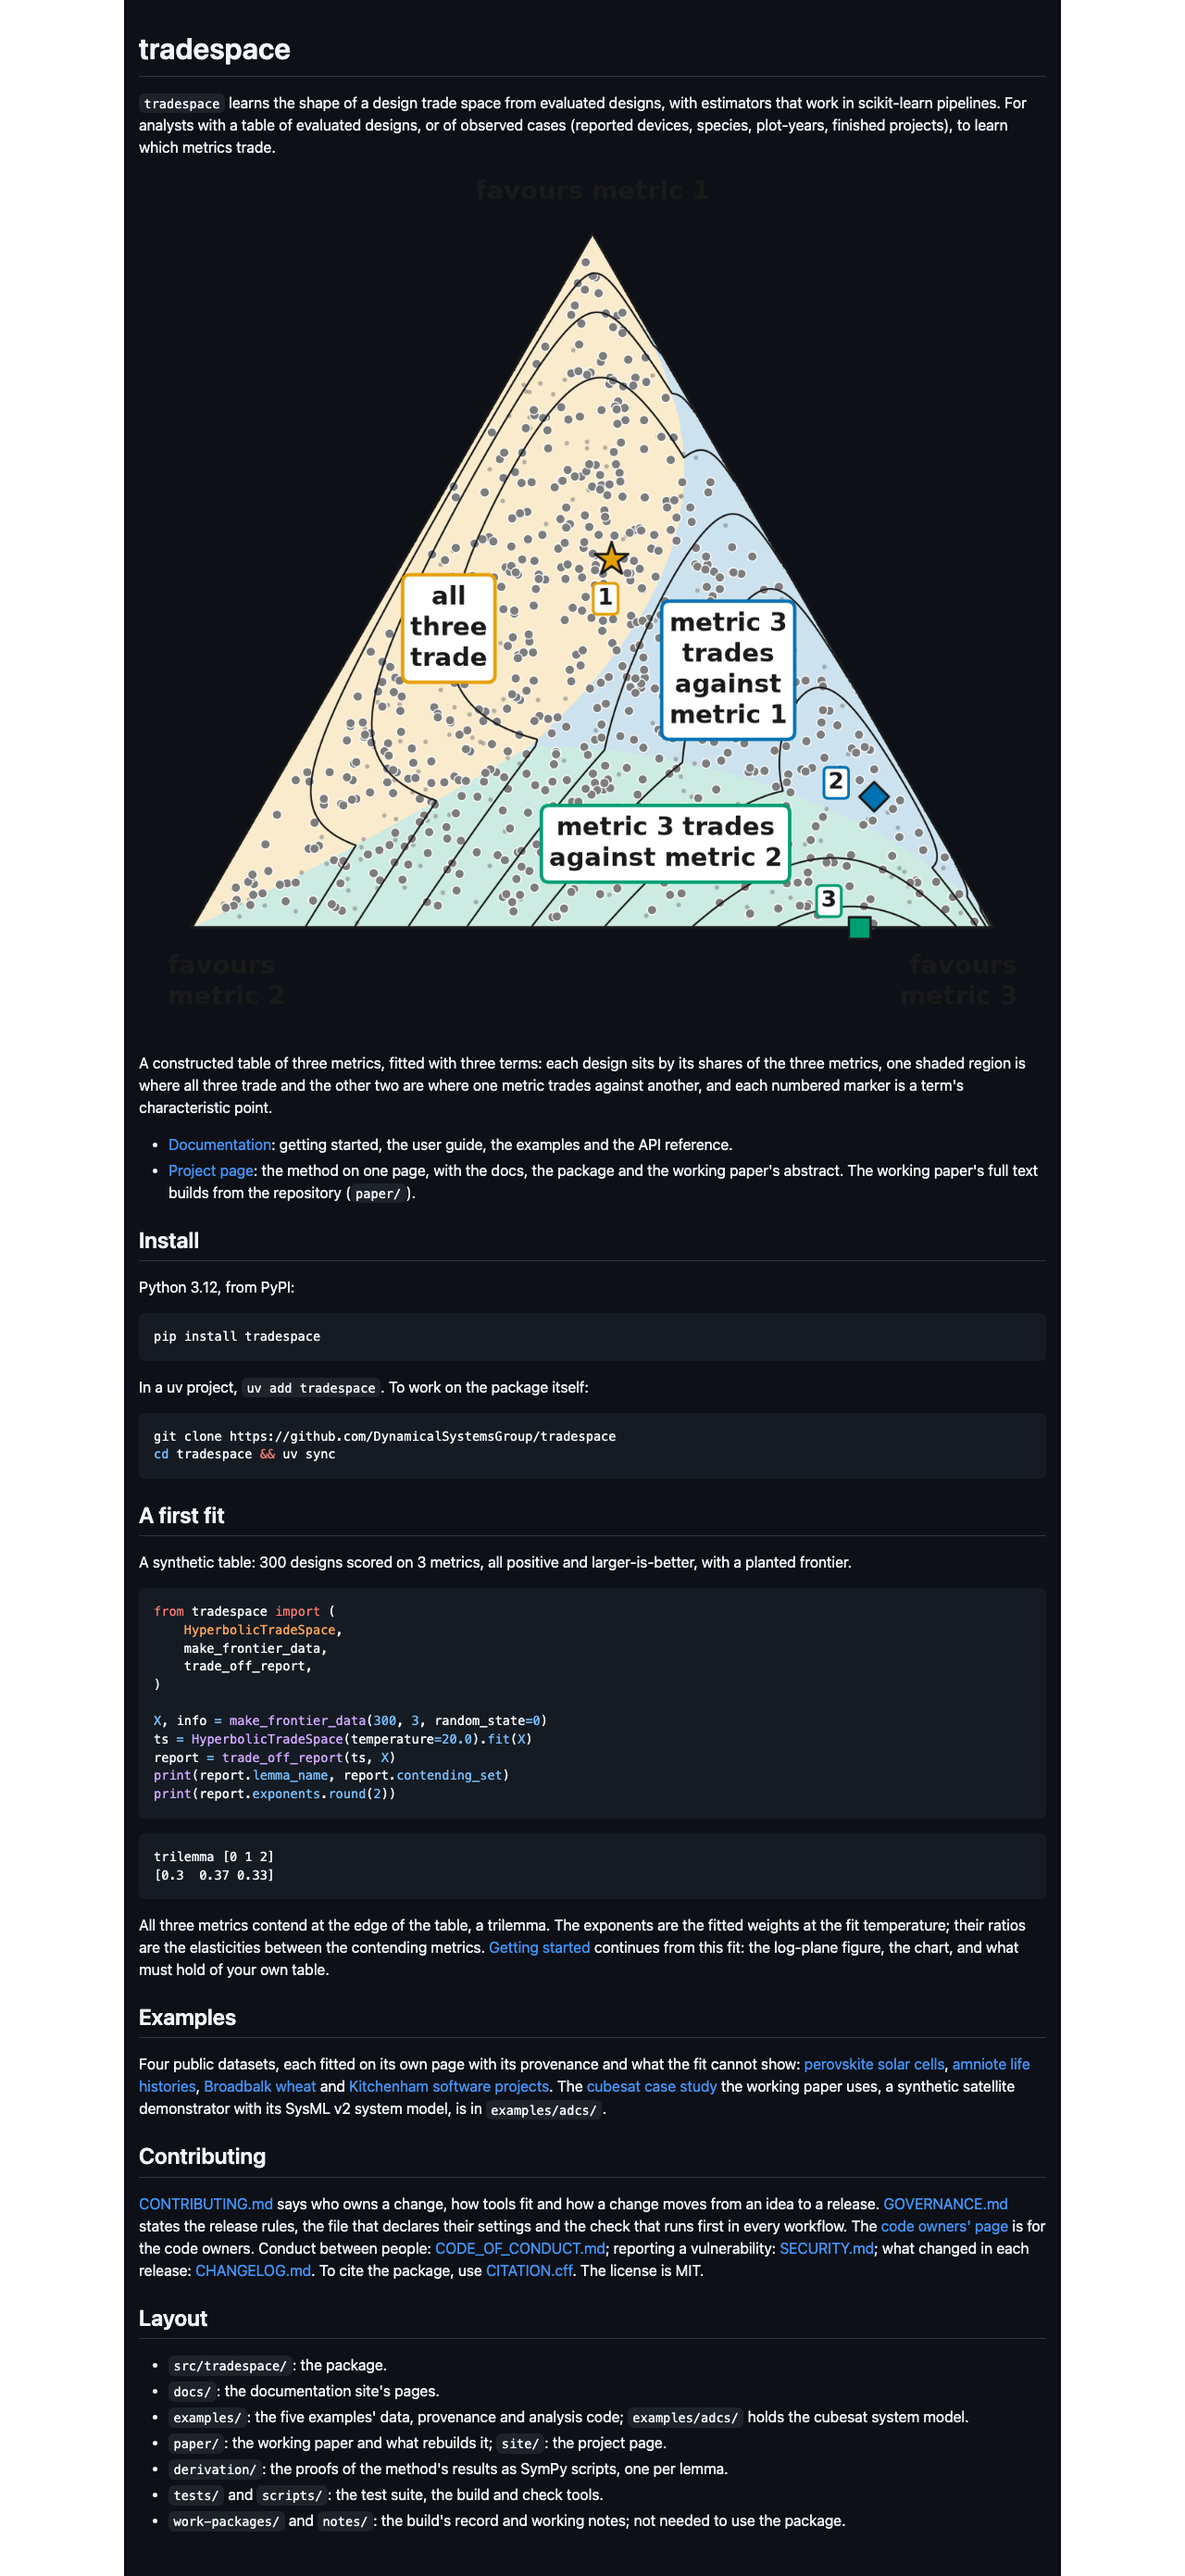
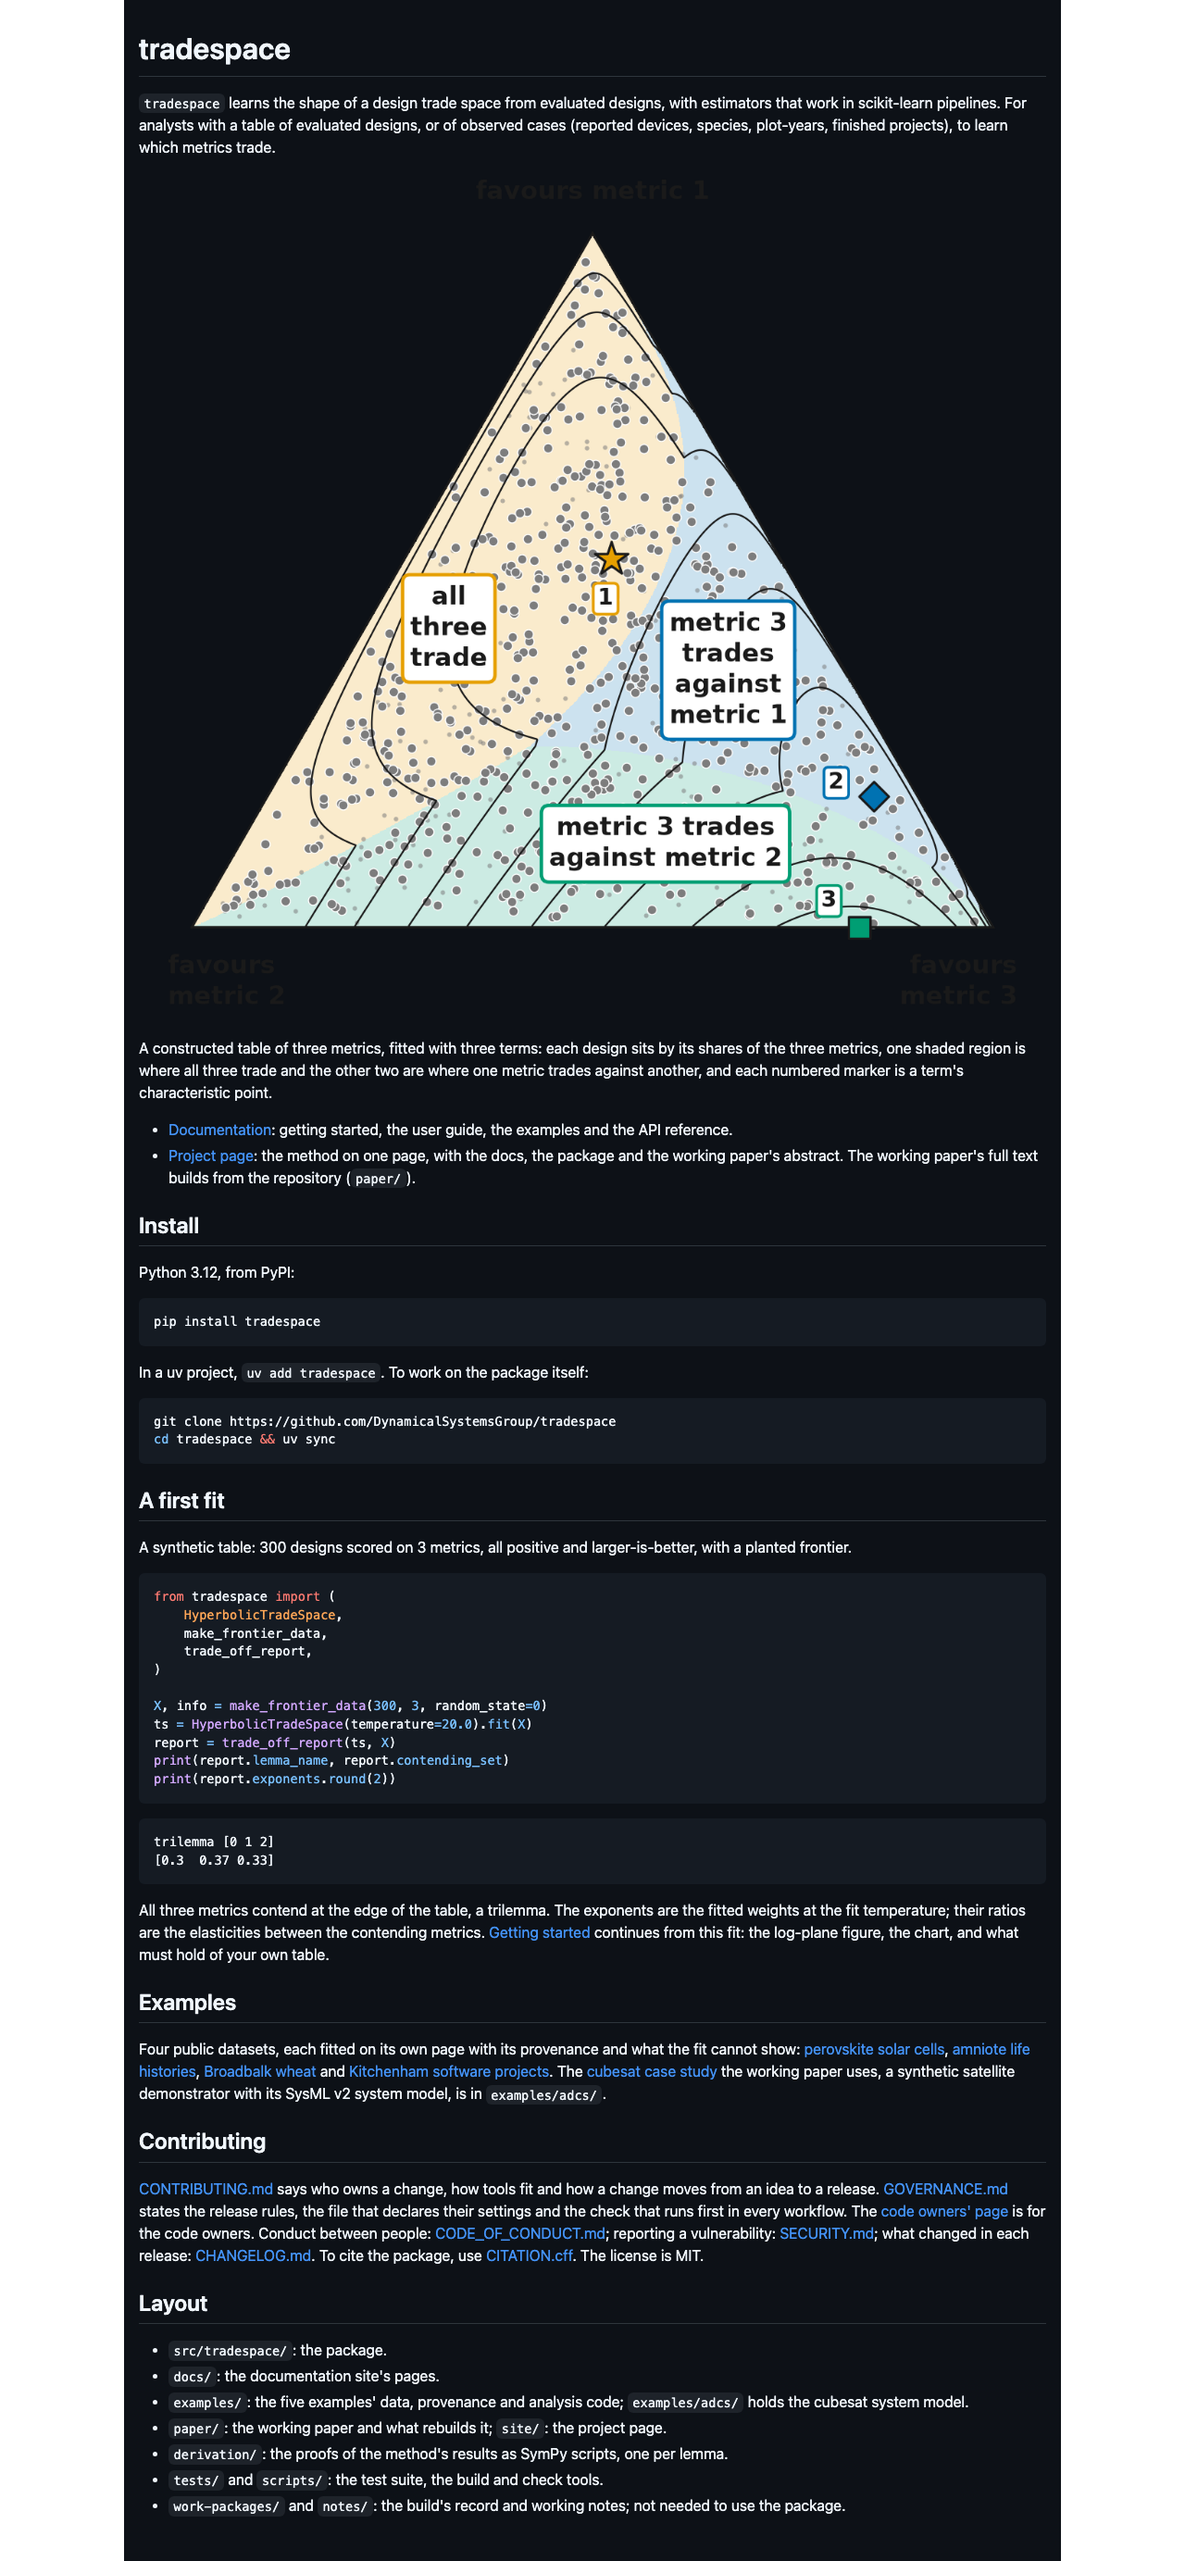
WP81 unit 4: the README figure as a picture element, the dark variant for a dark scheme (a rendering default): PyPI's renderer keeps the light img alone; github.com serves the dark source, checked on a public README with the scheme forced, where the Markdown API's link-wrapped img does not; captures

diff --git a/work-packages/WP81-review.md b/work-packages/WP81-review.md
@@ -114,5 +114,4 @@ corner labels (`favours metric 1`, `2`, `3`), dark ink outside the tinted triang
 triangle, its regions, labels and markers read; pypi.org renders a light page only, where the figure reads whole
 (`readme-1280-dark.png`). A dark variant through `<picture>` is stripped by PyPI's renderer, and GitHub's per-scheme
 address fragments would show two images on PyPI; an opaque background would need the site's figure rebuilt, a root-page
-change outside this unit. Left for his word.
-
+change outside this unit. Decided as a rendering default (the driver session): the figure is a `picture` element whose `source` names the dark variant for `prefers-color-scheme: dark` and whose `img` is the light one; PyPI's renderer keeps the `img` with the light address and drops the `source` (checked in its output), GitHub's page serves each scheme its own. Checked two ways: GitHub's Markdown API, the local approximation, wraps the `img` in a link, which takes it out of the `picture`'s reach, so its dark capture (`readme-1280-dark.png`) still shows the light figure; on github.com itself the `img` stays the `picture`'s direct child and, with the browser's scheme forced dark, a public README's `img` reports the dark `source` as its current source (astral-sh/uv, read in the browser pane). The blob view of this README in the dark scheme is captured after the push.

diff --git a/README.md b/README.md
@@ -4,7 +4,10 @@
 work in scikit-learn pipelines. For analysts with a table of evaluated designs, or of observed cases
 (reported devices, species, plot-years, finished projects), to learn which metrics trade.
 
-![A triangle of three metrics tinted in three regions, with designs as points, a numbered marker at each term's exponent vector and lines of equal value closing around each marker; each region is labelled by the trade-off that leads there.](https://dynamicalsystemsgroup.github.io/tradespace/ternary-planted-light.png)
+<picture>
+  <source media="(prefers-color-scheme: dark)" srcset="https://dynamicalsystemsgroup.github.io/tradespace/ternary-planted-dark.png">
+  <img alt="A triangle of three metrics tinted in three regions, with designs as points, a numbered marker at each term's exponent vector and lines of equal value closing around each marker; each region is labelled by the trade-off that leads there." src="https://dynamicalsystemsgroup.github.io/tradespace/ternary-planted-light.png">
+</picture>
 
 A constructed table of three metrics, fitted with three terms: each design sits by its shares of
 the three metrics, one shaded region is where all three trade and the other two are where one

diff --git a/work-packages/WP81-decisions.md b/work-packages/WP81-decisions.md
@@ -200,5 +200,5 @@ His word at about 22:55 EST, relayed verbatim by the driver session:
 after the opening paragraph as a plain Markdown image by its deployed address
 (`https://dynamicalsystemsgroup.github.io/tradespace/ternary-planted-light.png`), with the root page's alt text and one
 sentence in the glossary's words under it. The address is absolute because pypi.org renders the README from its own
-page, where a repository path breaks, and PyPI's renderer strips a `<picture>` element, so there is no dark variant.
+page, where a repository path breaks. The dark variant rides in a `picture` element's `source`: GitHub serves it in its dark scheme, and PyPI's renderer keeps the light `img` alone (a rendering default, the driver session's).
 
